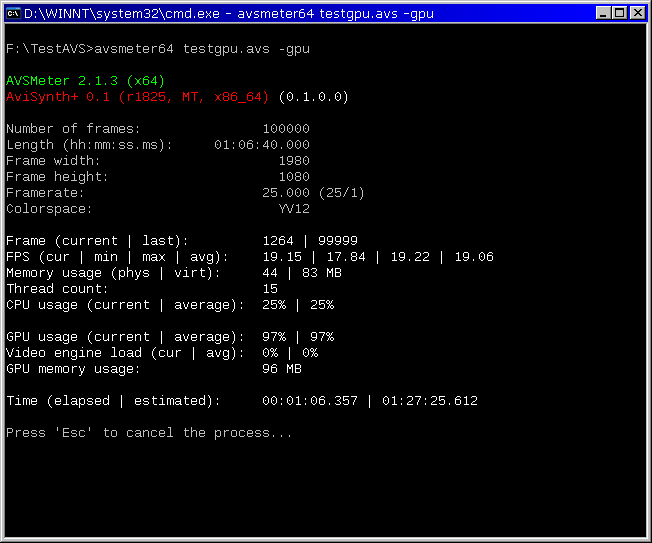
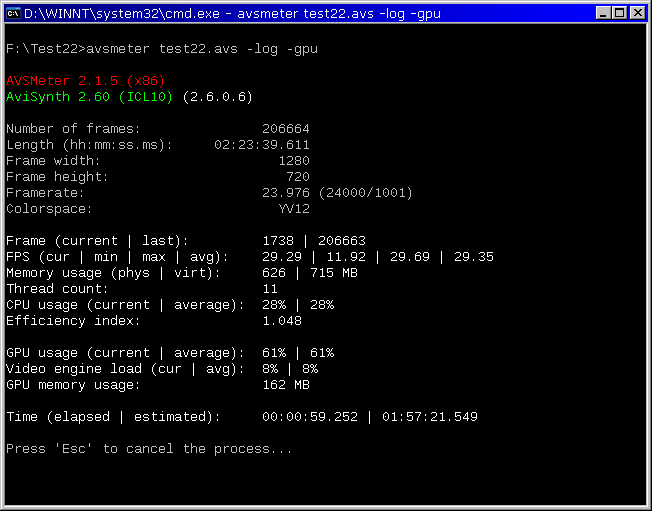
Import AVSMeter 2.1.5 (AVSMeter215)
Archive: AVSMeter215.7z
Mirror-Publication-Date: 2015-10-29 (not an original commit timestamp)
Excluded: .exe, .lib, .exp; no missing files backfilled

Archive import prepared with Copilot.

diff --git a/doc/AVSMeter.html b/doc/AVSMeter.html
@@ -35,13 +35,18 @@
     testing filters/plugins to evaluate their performance and memory
     requirements.<br>
     <b><br>
-      <img alt="" src="avsmeter.png" width="652" height="543"><br>
+      <img alt="" src="avsmeter.png" width="652" height="511"><br>
       <br>
     </b><br>
     <font face="Fixedsys"><big>Usage:&nbsp; AVSMeter script.avs
         [switches]<br>
         Switches<br>
         &nbsp;-avsinfo&nbsp;&nbsp;&nbsp;&nbsp;&nbsp;&nbsp;&nbsp;&nbsp;&nbsp;&nbsp;&nbsp;
+
+
+
+
+
 
 
 
@@ -77,12 +82,22 @@
 
 
 
+
+
+
+
+
           Monitor GPU/VPU usage (<font color="#ff0000">4</font>)<br>
           &nbsp;-range=first,last&nbsp;&nbsp; Set frame range (<font
             color="#ff0000">5</font>)<br>
           &nbsp;-timelimit=n&nbsp;&nbsp;&nbsp;&nbsp;&nbsp;&nbsp;&nbsp;
           Set time limit (seconds) (<font color="#ff0000">6</font>)<br>
           &nbsp;-priority=n&nbsp;&nbsp;&nbsp;&nbsp;&nbsp;&nbsp;&nbsp;&nbsp;
+
+
+
+
+
 
 
 
@@ -164,6 +179,20 @@
           "DisplayTPF" (<font color="Red">0</font> or 1):</b></b><br>
     </b>If set to "1", time/frame (in milliseconds) is printed to the
     console.<br>
+    <br>
+    <b><b><b>"DisplayEfficiencyIndex" </b></b></b><b><b><b><b><b><b>(0
+                or <font color="Red">1</font>)</b></b></b>:</b></b><br>
+    </b>If set to "1", the result of (FPS / CPU usage) is printed to the
+    console. This ratio indicates the efficiency of a script (higher =
+    better) and is useful for comparing different versions of a script
+    or scripts that are supposed to do the same thing.<br>
+    For example, using the QTGMC de-interlacer with multi-threaded
+    Avisynth involves plugins that themselves have built-in
+    multi-threading. Optimizing the number of threads these plugins use
+    in this scenario improves performance and efficiency and ultimately
+    helps save precious CPU cycles for the encoder and/or other tasks.
+    All you have to do to is change (for example) the QTGMC parameter
+    "EdiThreads" and check the Efficiency index that AVSMeter displays.<br>
     <b><br>
       "CreateLog" (<font color="Red">0</font> or 1):</b><br>
     Creates a log file with various details about the installed Avisynth

diff --git a/source/AVSMeter.cpp b/source/AVSMeter.cpp
@@ -36,6 +36,7 @@ public:
 	string    sAVSDLL;
 	BOOL      bDisplayFPS;
 	BOOL      bDisplayTPF;
+	BOOL      bDisplayEfficiencyIndex;
 	BOOL      bCreateLog;
 	BOOL      bCreateCSV;
 	BOOL      bPauseBeforeExit;
@@ -1043,6 +1044,13 @@ int main(int argc, char* argv[])
 			PrintConsole(Settings.bConUseStdOut, COLOR_EMPHASIS, "\r%s\n", utils.StrPad(sOutBuf).c_str());
 			++uiCursorOffset;
 
+			if (Settings.bDisplayEfficiencyIndex)
+			{
+				sOutBuf = utils.StrFormat("Efficiency index:               %s", utils.StrFormatFrameTime(dFPSAverage / (double)uiCPUUsageAvg).c_str());
+				PrintConsole(Settings.bConUseStdOut, COLOR_EMPHASIS, "\r%s\n", utils.StrPad(sOutBuf).c_str());
+				++uiCursorOffset;
+			}
+
 			if (Settings.bMonitorGPULoad)
 			{
 				PrintConsole(Settings.bConUseStdOut, COLOR_DEFAULT, "\n");
@@ -1169,6 +1177,13 @@ int main(int argc, char* argv[])
 			sOutBuf = utils.StrFormat("CPU usage (average):            %u%%", uiCPUUsageAvg);
 			PrintConsole(Settings.bConUseStdOut, COLOR_EMPHASIS, "\r%s\n", utils.StrPad(sOutBuf).c_str());
 			sLogBuffer += sOutBuf + "\n";
+
+			if (Settings.bDisplayEfficiencyIndex)
+			{
+				sOutBuf = utils.StrFormat("Efficiency index:               %s", utils.StrFormatFrameTime(dFPSAverage / (double)uiCPUUsageAvg).c_str());
+				PrintConsole(Settings.bConUseStdOut, COLOR_EMPHASIS, "\r%s\n", utils.StrPad(sOutBuf).c_str());
+				sLogBuffer += sOutBuf + "\n";
+			}
 
 			if (Settings.bMonitorGPULoad)
 			{
@@ -1352,6 +1367,7 @@ string ParseINIFile()
 	Settings.sAVSDLL = "";
 	Settings.bDisplayFPS = TRUE;
 	Settings.bDisplayTPF = FALSE;
+	Settings.bDisplayEfficiencyIndex = TRUE;
 	Settings.bCreateLog = FALSE;
 	Settings.bCreateCSV = FALSE;
 	Settings.bPauseBeforeExit = FALSE;
@@ -1417,6 +1433,7 @@ string ParseINIFile()
 		hINIFile << "AVSDLL=\n";
 		hINIFile << "DisplayFPS=1\n";
 		hINIFile << "DisplayTPF=0\n";
+		hINIFile << "DisplayEfficiencyIndex=1\n";
 		hINIFile << "CreateLog=0\n";
 		hINIFile << "CreateCSV=0\n";
 		hINIFile << "PauseBeforeExit=0\n";
@@ -1473,6 +1490,12 @@ string ParseINIFile()
 		{
 			if (sCurrentLine.substr(sCurrentLine.length() - 1) == "1")
 				Settings.bDisplayTPF = TRUE;
+		}
+
+		if (sCurrentLine.substr(0, 22) == "displayefficiencyindex")
+		{
+			if (sCurrentLine.substr(sCurrentLine.length() - 1) == "0")
+				Settings.bDisplayEfficiencyIndex = FALSE;
 		}
 
 		if (sCurrentLine.substr(0, 9) == "createlog")
